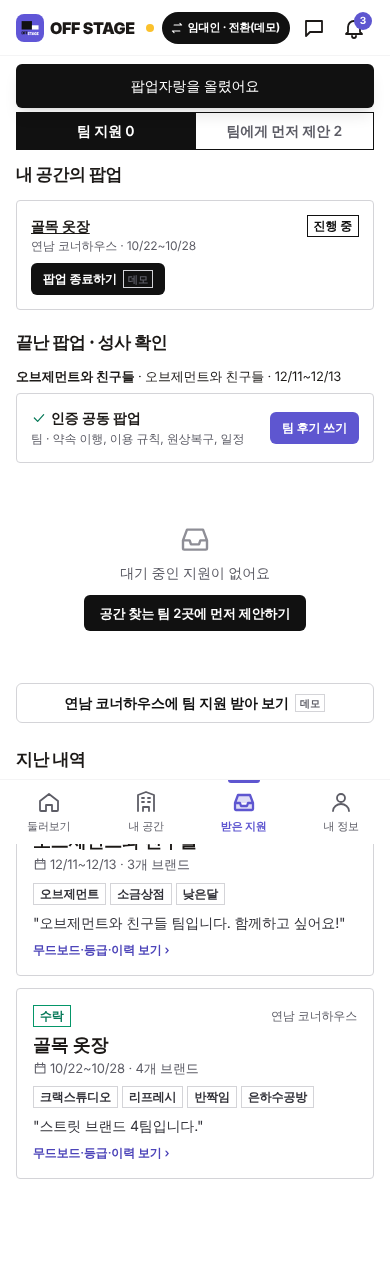
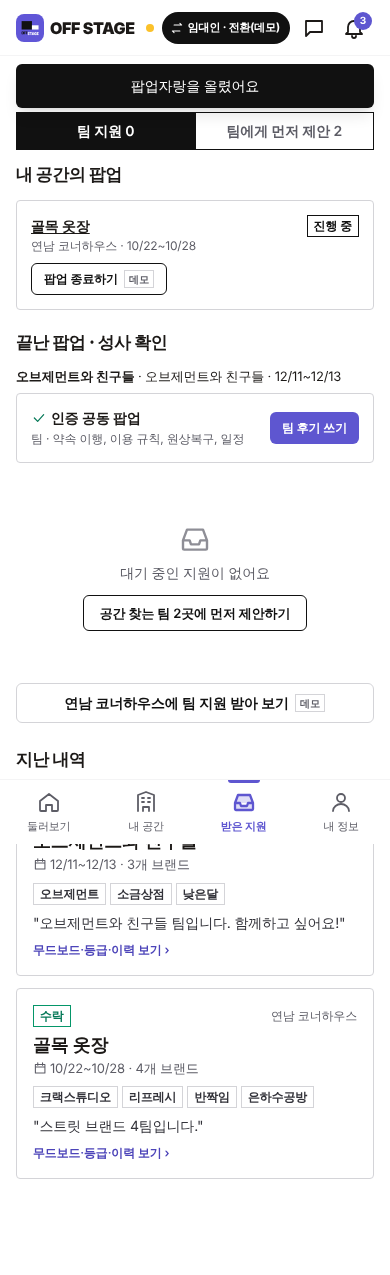
검은 버튼을 테두리 버튼으로, 남은 연보라 상자 정리, 팝업자랑 설명 문구 제거
Claude-Session: https://claude.ai/code/session_0127PgxmrWax7HLBrSWBod79

Changed region(s): [[0.2154, 0.4588, 0.8, 0.52], [0.0615, 0.1835, 0.4308, 0.2447]]

diff --git a/src/screens/Showcase.tsx b/src/screens/Showcase.tsx
@@ -16,9 +16,8 @@ export function ShowcaseList() {
   const untold = brand ? teamsOfBrand(db, brand.id).filter((t) => t.stage === '종료' && t.popupId && !db.showcases.some((s) => s.teamId === t.id)) : [];
   return (
     <div className="px-4 pt-4 space-y-3">
-      <p className="text-[13px] text-ink-500">팀이 함께 연 팝업의 기록이에요. 운영 팁과 방문객 조합 리뷰를 같이 볼 수 있어요.</p>
       {untold.map((t) => (
-        <div key={t.id} className="rounded border border-dashed border-ink-300 bg-brand-50 p-4 flex items-center gap-3">
+        <div key={t.id} className="rounded border border-ink-300 bg-white p-4 flex items-center gap-3">
           <div className="flex-1 min-w-0">
             <div className="font-bold text-[14px]">{t.name} 팝업 기록 남기기</div>
             <p className="text-[12px] text-ink-700 mt-0.5">사진 몇 장과 운영 팁 한 줄이면 돼요. 다음 팀원을 찾을 때 신뢰가 쌓여요.</p>
@@ -37,7 +36,7 @@ export function ShowcaseList() {
             <div className="p-3.5">
               <div className="font-bold">{s.title}</div>
               <div className="text-[12px] text-ink-500 mt-0.5">{period(s.period)} · {sp?.name} · {teamById(db, s.teamId)?.name}</div>
-              <div className="flex flex-wrap gap-1 mt-2">{s.brandIds.map((b) => <Tag key={b}>@{brandById(db, b)?.name}</Tag>)}</div>
+              <div className="text-[12px] font-semibold text-ink-700 mt-1.5">{s.brandIds.map((b) => `@${brandById(db, b)?.name}`).join('  ')}</div>
               <p className="text-[13px] text-ink-700 mt-2 line-clamp-2"><Ic n="bulb" className="text-amber-600" />{s.tips}</p>
               <div className="text-[12px] text-ink-500 mt-2 flex items-center gap-1"><Icon name="heart" filled={!!s.helpful?.length} className="w-3.5 h-3.5 text-brand-500" /> 팁이 도움됐어요 {s.helpful?.length ?? 0}</div>
             </div>
@@ -127,7 +126,7 @@ export function ShowcaseNew({ teamId }: { teamId: string }) {
       <div className="p-4">
         <div className="rounded border border-ink-300 p-3 text-sm mb-4">
           <b>{team.name}</b> · {period(pop.period)} · {spaceById(db, pop.spaceId)?.name}
-          <div className="flex flex-wrap gap-1 mt-1.5">{team.members.map((m) => <Tag key={m.brandId}>@{brandById(db, m.brandId)!.name}</Tag>)}</div>
+          <div className="text-[12px] font-semibold text-ink-700 mt-1.5">{team.members.map((m) => `@${brandById(db, m.brandId)!.name}`).join('  ')}</div>
         </div>
         <Field label="사진" hint="데모에서는 예시 사진이 추가돼요">
           <div className="flex gap-1.5 flex-wrap">

diff --git a/src/screens/Today.tsx b/src/screens/Today.tsx
@@ -308,7 +308,7 @@ export function TodayVisitor() {
                   <span className="block text-[14px] font-bold truncate">{p.title}</span>
                   <span className="block text-[12px] text-ink-500">{waitCount(p)}명이 기다려요</span>
                 </button>
-                <button onClick={() => toggleWaitlist(p.id, userId)} className={cx('h-8 px-3 rounded-md text-[12px] font-bold shrink-0', on ? 'bg-brand-50 text-brand-600' : 'bg-ink-900 text-white')}>
+                <button onClick={() => toggleWaitlist(p.id, userId)} className={cx('h-8 px-3 rounded-md text-[12px] font-bold shrink-0', on ? 'border border-ink-300 text-ink-500' : 'bg-brand-500 text-white')}>
                   {on ? '알림 켜짐' : '알림 받기'}
                 </button>
               </div>
@@ -446,7 +446,7 @@ export function TodayRental() {
             const who = o.teamId ? teamById(db, o.teamId)?.name : brandById(db, o.brandId)?.name;
             return (
               <button key={o.id} onClick={() => navigate({ name: 'tab', tab: 'orders' })} className="w-full flex items-center gap-3 py-2 text-left border-t border-ink-100 first:border-t-0">
-                <span className="w-12 shrink-0 text-center rounded-lg bg-brand-50 text-brand-600 text-[12px] font-extrabold py-1">{dday(started ? o.dates.end : o.dates.start)}</span>
+                <span className="w-12 shrink-0 text-center border border-ink-300 text-ink-900 text-[12px] font-extrabold py-1">{dday(started ? o.dates.end : o.dates.start)}</span>
                 <span className="flex-1 min-w-0">
                   <span className="block text-[13px] font-semibold truncate">{who}</span>
                   <span className="block text-[12px] text-ink-500">{started ? `${o.delivery ? '회수' : '반납'} ${md(o.dates.end)}` : `${o.delivery ? '배송' : '수령'} ${md(o.dates.start)}`} · 장비 {o.lines.reduce((n, l) => n + l.qty, 0)}개</span>

diff --git a/src/components/ui.tsx b/src/components/ui.tsx
@@ -87,7 +87,7 @@ export function Button({
     secondary: 'bg-white text-ink-900 border border-ink-300 active:bg-ink-100 disabled:text-ink-400',
     ghost: 'text-ink-700 active:bg-ink-100',
     danger: 'bg-red-50 text-red-600 border border-red-200 active:bg-red-100',
-    dark: 'bg-ink-900 text-white active:bg-ink-700 disabled:bg-ink-300',
+    dark: 'bg-white text-ink-900 border border-ink-900 active:bg-ink-100 disabled:border-ink-300 disabled:text-ink-400',
   };
   const s = { sm: 'h-8 px-3 text-xs', md: 'h-10 px-4 text-sm', lg: 'h-12 px-5 text-base' }[size];
   return (
@@ -208,7 +208,7 @@ export function Empty({ children, icon = 'inbox', action }: { children: ReactNod
     <div className="py-10 flex flex-col items-center text-ink-500 text-sm gap-2 text-center">
       <Icon name={icon} className="w-8 h-8 text-ink-400" />
       {children}
-      {action && <button onClick={action.onClick} className="mt-1 h-9 px-4 rounded-md bg-ink-900 text-white text-[13px] font-semibold">{action.label}</button>}
+      {action && <button onClick={action.onClick} className="mt-1 h-9 px-4 rounded-md border border-ink-900 text-ink-900 text-[13px] font-semibold">{action.label}</button>}
     </div>
   );
 }

diff --git a/src/screens/Chat.tsx b/src/screens/Chat.tsx
@@ -32,7 +32,7 @@ export function ChatListScreen() {
                 <div className="flex items-center gap-1.5">
                   <span className="font-bold truncate">{r.title}</span>
                   <span className="text-xs text-ink-500 shrink-0">{r.memberIds.length > 2 ? r.memberIds.length : ''}</span>
-                  {team && team.popupId && <span className="text-[11px] font-bold text-brand-600 bg-brand-50 rounded px-1.5 py-0.5 shrink-0">{dday(team.period.start)}</span>}
+                  {team && team.popupId && <span className="text-[11px] font-bold text-brand-600 shrink-0 shrink-0">{dday(team.period.start)}</span>}
                   <span className="ml-auto text-[12px] text-ink-500 shrink-0">{last ? ago(last.at) : ''}</span>
                 </div>
                 <div className="flex items-center gap-2">

diff --git a/src/screens/Completion.tsx b/src/screens/Completion.tsx
@@ -150,7 +150,7 @@ export function TeamWrapUp({ team }: { team: Team }) {
           ].map(([e, t, d], i) => (
             <div key={t} className="flex gap-3 pb-3 last:pb-0">
               <div className="flex flex-col items-center">
-                <span className="w-8 h-8 rounded-full bg-brand-50 text-brand-600 flex items-center justify-center"><Icon name={e} className="w-4 h-4" /></span>
+                <span className="w-8 h-8 rounded-full border border-ink-300 text-ink-700 flex items-center justify-center"><Icon name={e} className="w-4 h-4" /></span>
                 {i < 3 && <span className="flex-1 w-px bg-ink-100 mt-1" />}
               </div>
               <div className="pb-1">

diff --git a/src/screens/Admin.tsx b/src/screens/Admin.tsx
@@ -119,7 +119,7 @@ export function StatsTab() {
       <ScreenTitle>운영 지표</ScreenTitle>
       <div className="px-4 space-y-4 pb-6">
         {(pending > 0 || openReports > 0) && (
-          <Card className="p-3.5 border-ink-300 bg-brand-50" onClick={() => navigate({ name: 'tab', tab: pending ? 'verify' : 'reports' })}>
+          <Card className="p-3.5 border-ink-900" onClick={() => navigate({ name: 'tab', tab: pending ? 'verify' : 'reports' })}>
             <div className="text-sm font-bold">처리할 일: 인증 대기 {pending}건 · 신고 {openReports}건 ›</div>
           </Card>
         )}
